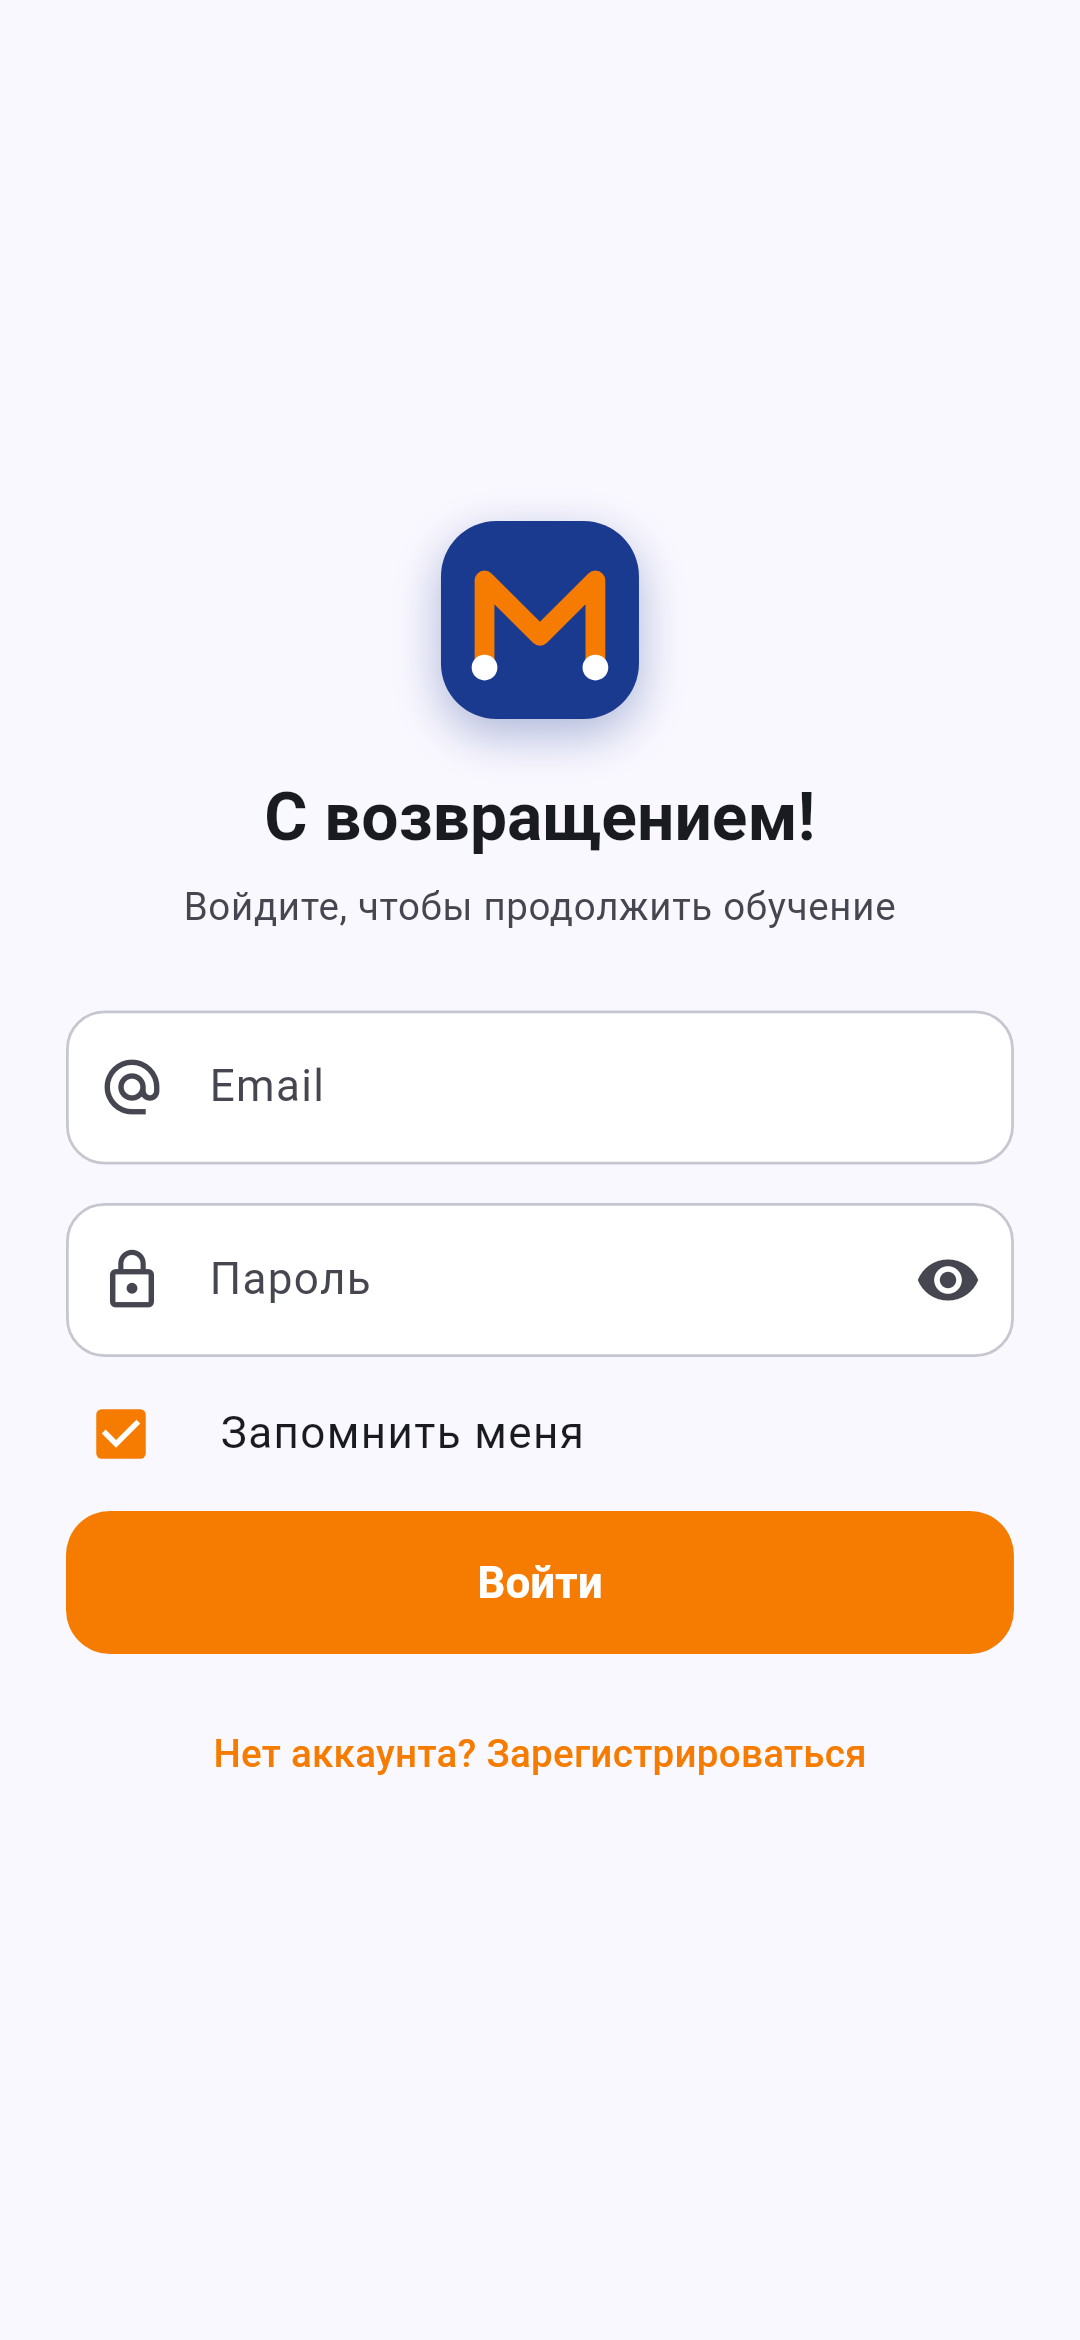
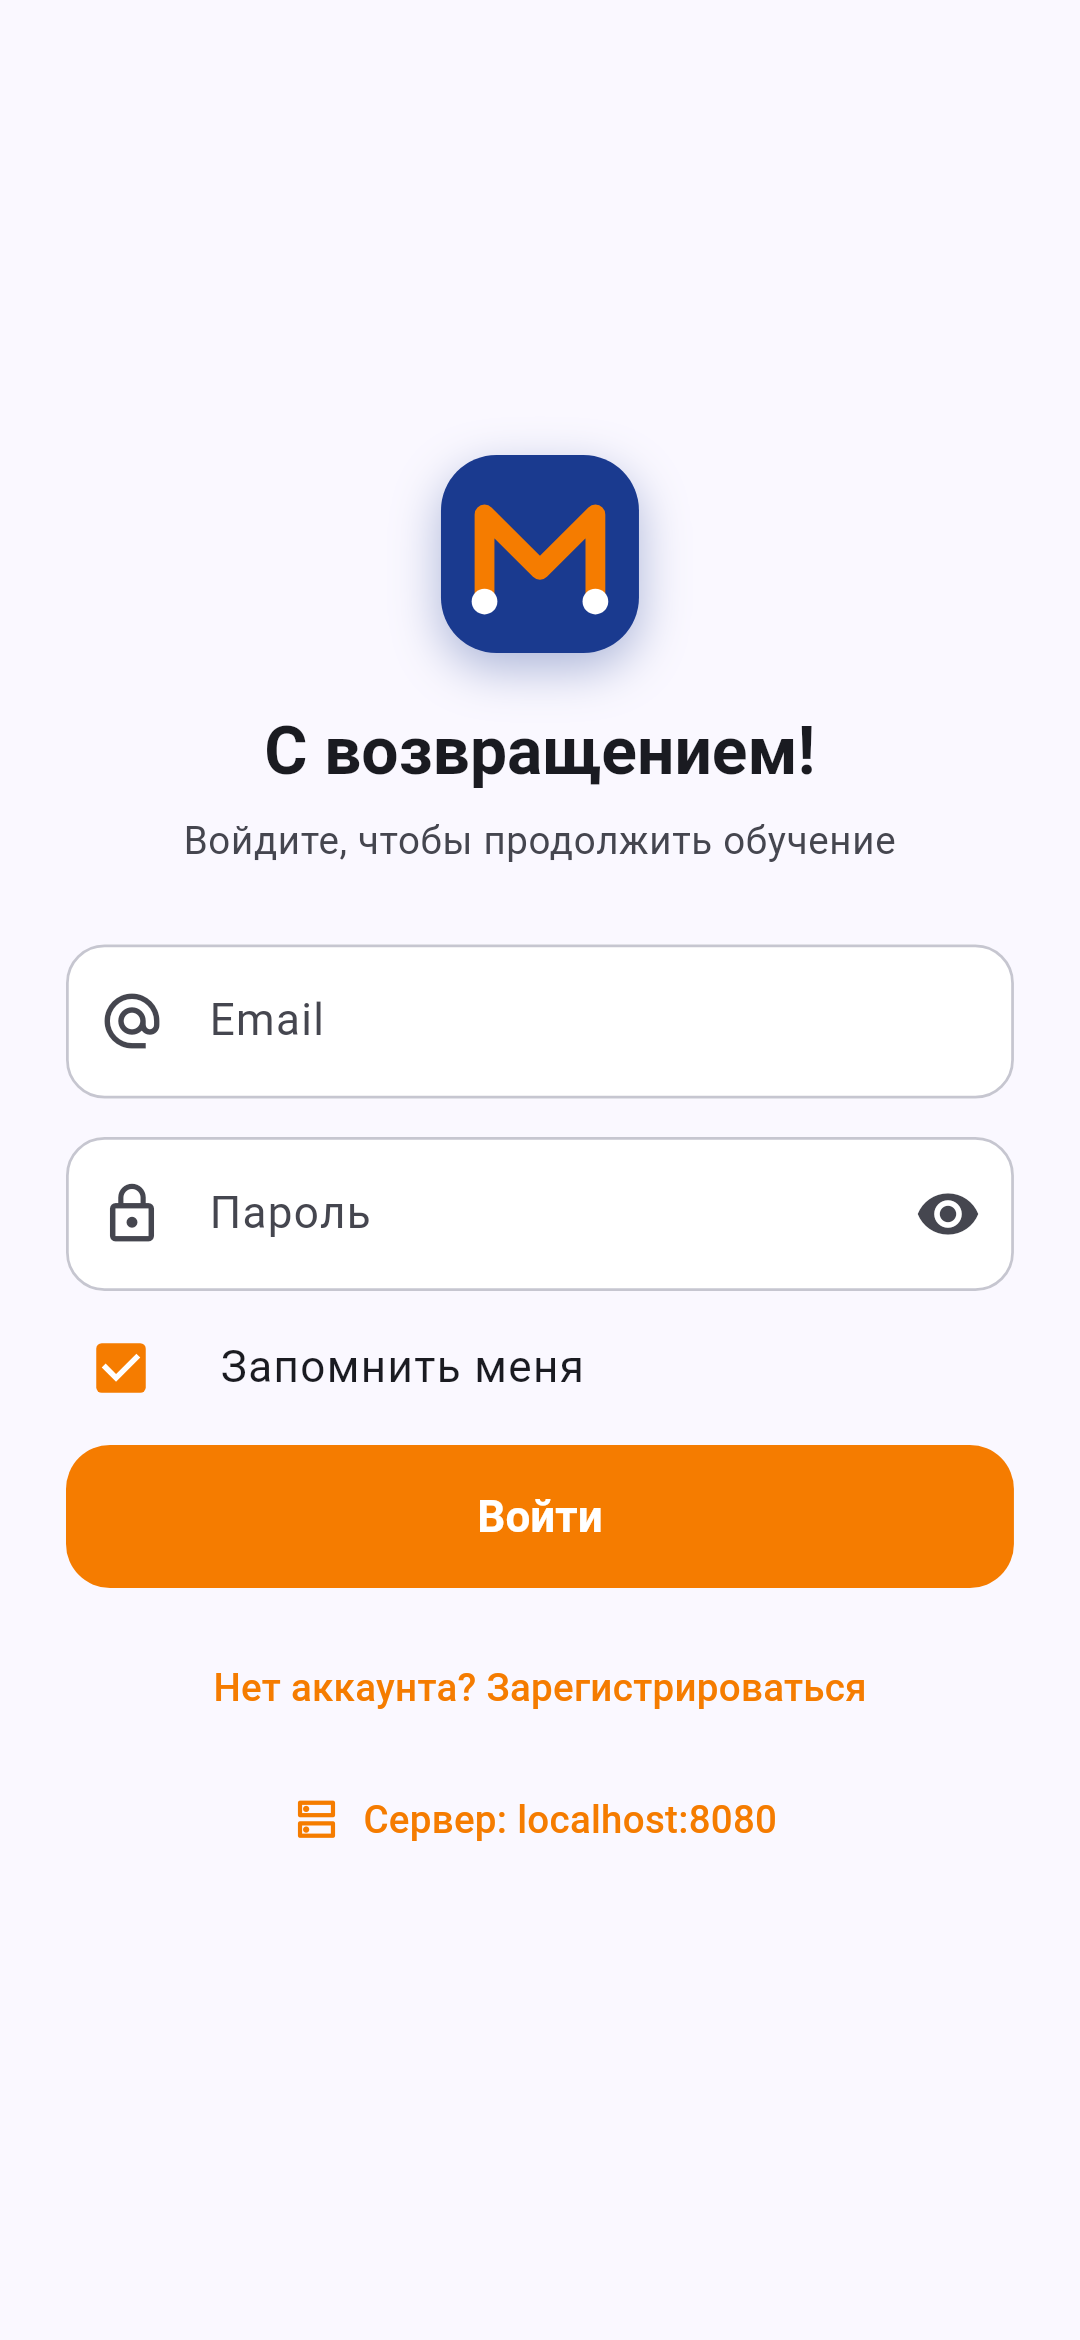
Скриншоты: кнопка и окно адреса сервера API, строка «Сервер API» в профиле
Claude-Session: https://claude.ai/code/session_01M7NW7KzTcoGm6LcSGjUPNJ

Changed region(s): [[0.0611, 0.1872, 0.9472, 0.8111]]

diff --git a/tool/screenshots/screenshots_test.dart b/tool/screenshots/screenshots_test.dart
@@ -15,6 +15,7 @@ import 'package:flutter_riverpod/flutter_riverpod.dart';
 import 'package:flutter_test/flutter_test.dart';
 import 'package:go_router/go_router.dart';
 import 'package:marshrut/app.dart';
+import 'package:marshrut/presentation/providers/providers.dart';
 
 import '../../test/helpers/test_app.dart';
 import 'screenshot_support.dart';
@@ -46,7 +47,11 @@ void main() {
     await tester.pumpWidget(
       RepaintBoundary(
         key: _boundary,
-        child: ProviderScope(overrides: overrides!, child: const MarshrutApp()),
+        child: ProviderScope(
+          overrides: overrides!,
+          retry: noAutoRetry,
+          child: const MarshrutApp(),
+        ),
       ),
     );
 
@@ -93,6 +98,14 @@ void main() {
     await settle(tester);
 
     await shot('02_login');
+    // Окно адреса сервера API (кнопка «Сервер: …» под формой входа).
+    await tap(find.byKey(const Key('server_settings')));
+    await tester.enterText(
+      find.byKey(const Key('server_url_field')),
+      'http://192.168.1.5:8080',
+    );
+    await shot('26_server_address');
+    await tap(find.text('Отмена'));
     await tap(find.byKey(const Key('go_register')));
     await tap(find.byKey(const Key('reg_submit')));
     await shot('03_register_validation');
